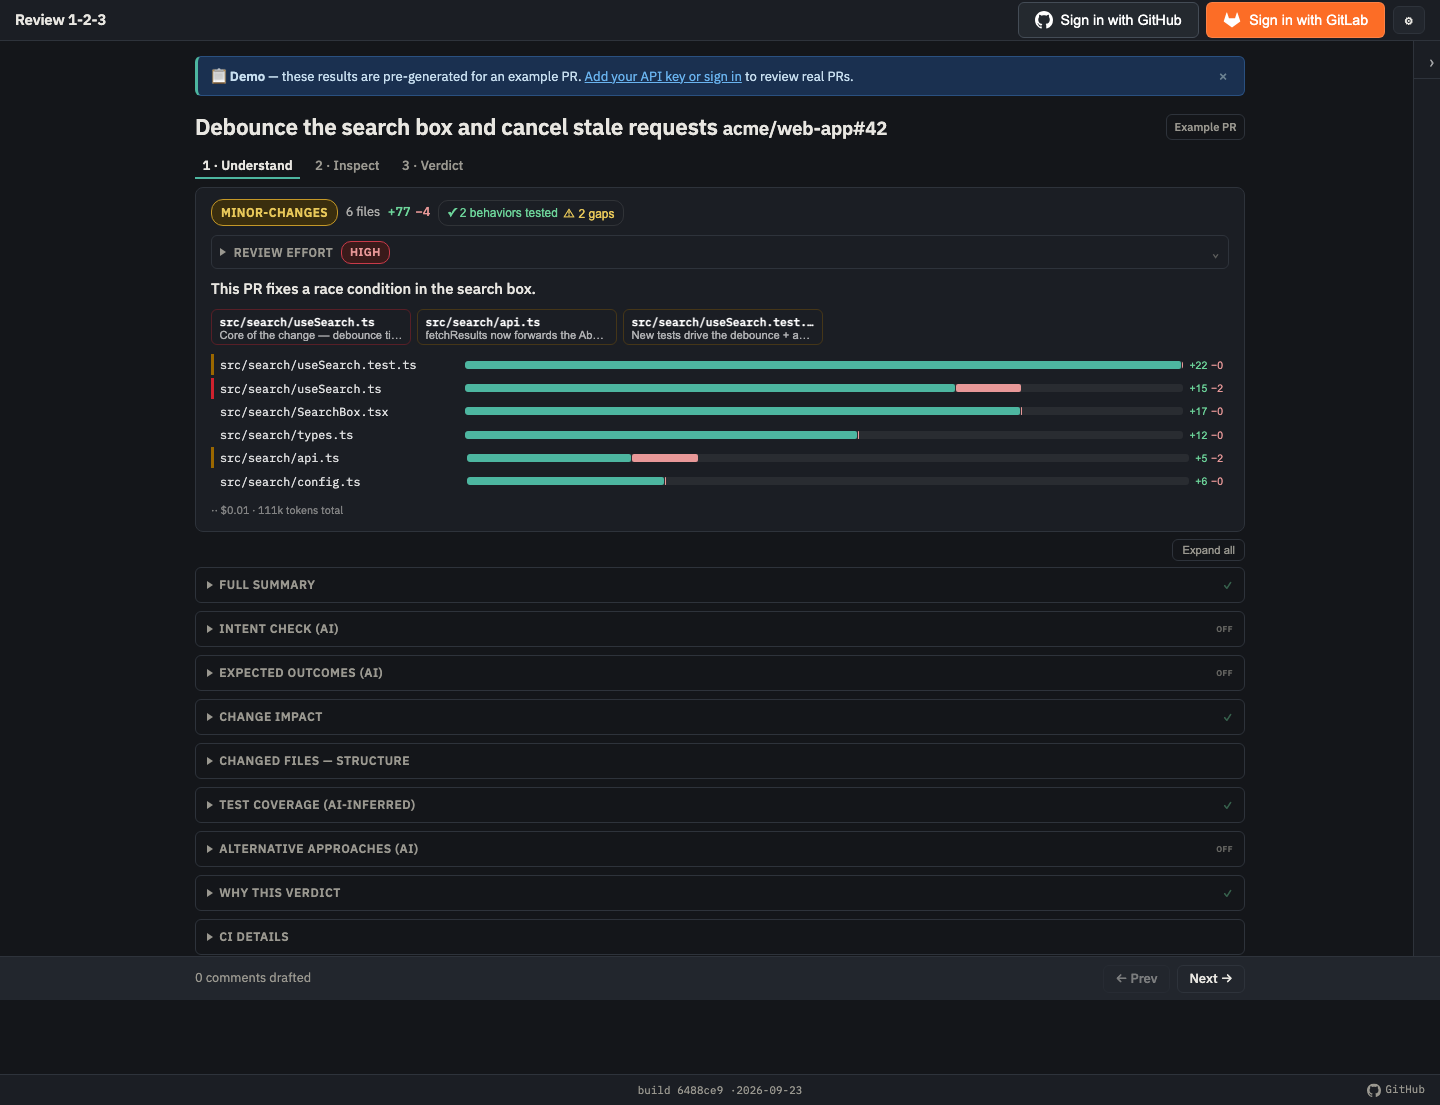
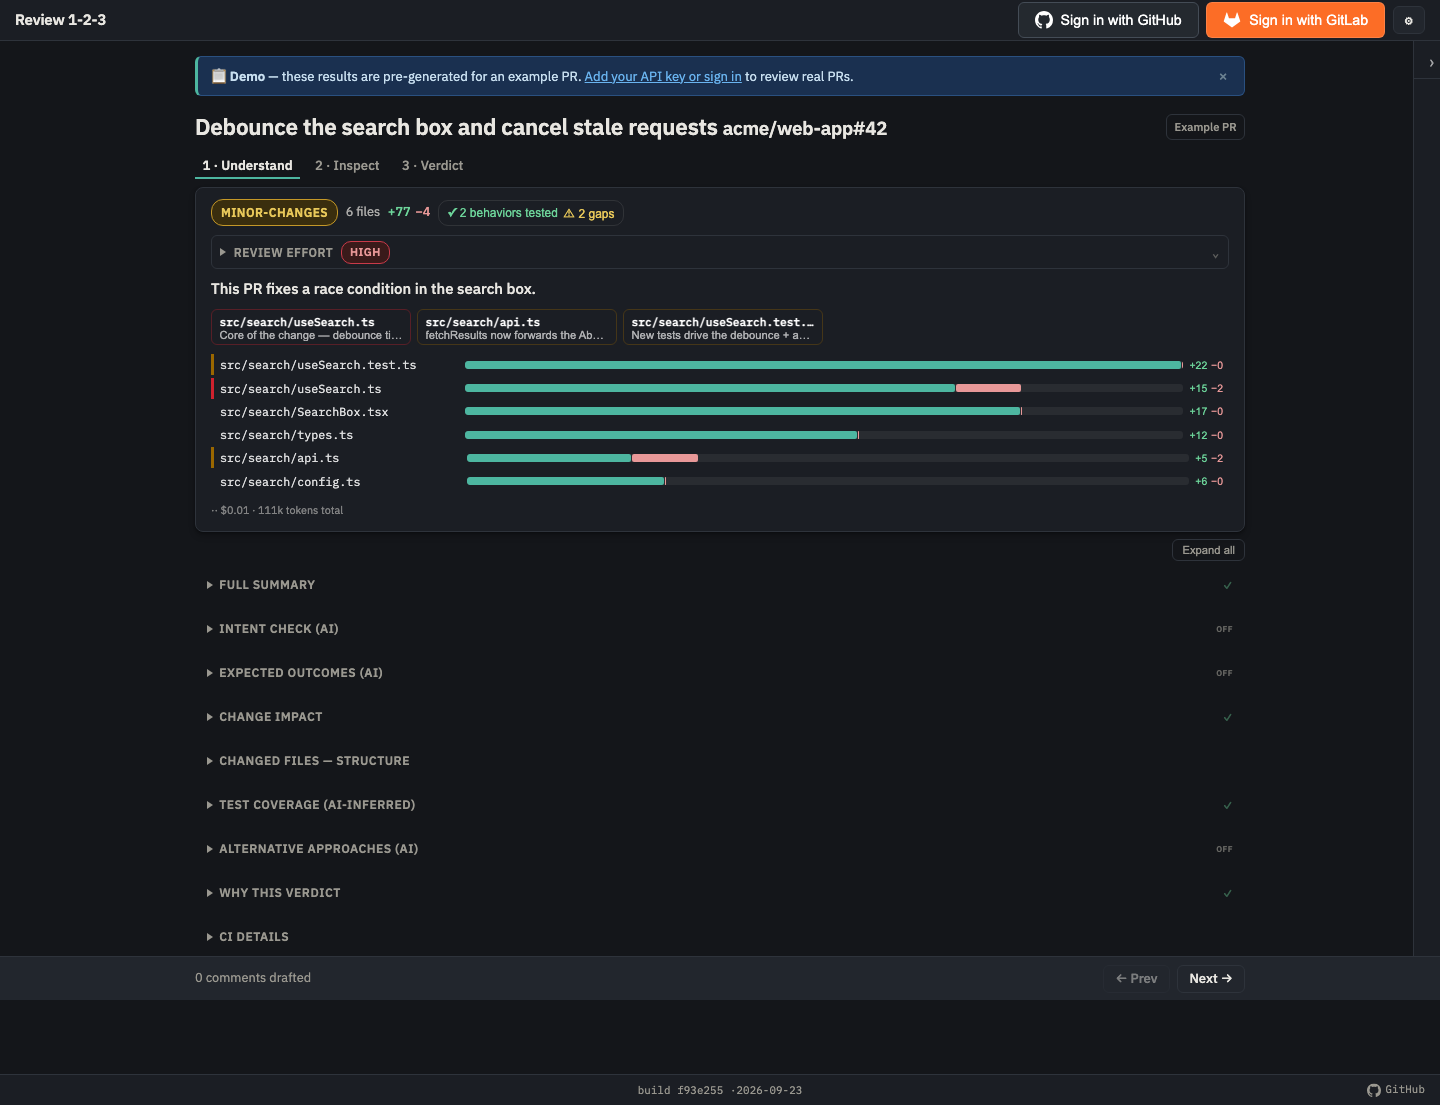
fix(ui): keep the card rim in dark — measured, the shadow cannot replace it
Re-measuring the three separation mechanisms in the built app, against each
theme's real grounds, contradicted "drop the border" as a universal rule:

  mechanism                    light        dark
  --hairline as a 1px rim      1.33:1       1.31:1
  --surface against --bg       1.06:1       1.08:1
  the elevation-1 shadow       1.58:1       1.08:1

In light the shadow beats the border outright -- stronger AND softer -- so the
border is redundant and goes. In dark it does not, and NO alpha rescues it:
black on #14161a tops out at 1.07:1 even at 0.40, because a near-black ground
has nothing left to cast into. That is very likely why the nine replaced values
kept climbing toward 0.40 without ever separating anything.

Shipping the border removal in both themes would have traded a 1.31:1 rim for a
1.08:1 shadow in dark -- a regression dressed as a principle. So the rim is now
theme-dependent, one declaration, the same shape the palette uses:

  border: 1px solid light-dark(transparent, var(--hairline));

Applied to .card, dialog, .glance-card and .detail-panel[open]. The nested
light-dark() is deliberate and was verified in a real browser before use -- it
keeps the dark side pointing at --hairline instead of duplicating #2e333b.
A CLOSED .detail-panel carries a transparent 1px rim in both themes so opening
one does not shift the layout.

contrast.test.ts gains the two assertions that make the split visible to whoever
[…]

Changed region(s): [[0.4688, 0.9846, 0.5, 1.0]]

diff --git a/src/app.css b/src/app.css
@@ -567,12 +567,27 @@ input[type='radio']:disabled {
    ═══════════════════════════════════════════ */
 
 /*
- * A card is separated from the page by DEPTH, not by a line: it sits on
- * --surface, which is lighter than --bg in light and in dark (the flat-design
- * depth cue, p.167-168), and carries elevation step 1. That is two of the three
- * alternatives p.206-209 offers instead of reaching for yet another border —
- * and the border it drops measured 1.33:1 against this very background, below
- * the threshold of comfortable perception anyway (audit F10).
+ * ── WHY THE BORDER IS THEME-DEPENDENT, and this is the rule that sets it ──
+ *
+ * p.206-209 says separate with space, a background shift or a shadow BEFORE
+ * reaching for another border. Measured on this app's real grounds, that advice
+ * holds in light and fails in dark:
+ *
+ *   mechanism                    light        dark
+ *   --hairline as a 1px rim      1.33:1       1.31:1
+ *   --surface against --bg       1.06:1       1.08:1
+ *   the elevation-1 shadow       1.58:1       1.08:1
+ *
+ * In light the shadow beats the border outright — stronger AND softer — so the
+ * border is redundant and goes. In dark it does not, and no alpha rescues it:
+ * black on #14161a tops out at 1.07:1 even at 0.40, which is exactly why the
+ * nine values Batch 2B replaced kept climbing toward 0.40 without ever
+ * separating anything. A dark ground has no room below it to cast into.
+ *
+ * So the rim stays in DARK only, and the shadow supports it there instead of
+ * replacing it. One declaration carries both, the same way the palette does.
+ * (Nested light-dark() is deliberate and verified in-browser: it keeps the dark
+ * side pointing at --hairline rather than duplicating its value here.)
  *
  * NOTE: this primitive has no call sites today; .glance-card in
  * UnderstandStep.svelte is a hand-inlined copy of the old rule. Batch 2B
@@ -580,6 +595,7 @@ input[type='radio']:disabled {
  */
 .card {
   background: var(--surface);
+  border: 1px solid light-dark(transparent, var(--hairline));
   border-radius: 8px;
   padding: 0.75rem 1rem;
   box-shadow: var(--elevation-1);
@@ -657,11 +673,12 @@ details[open] > summary::before {
  * A modal had NO shadow at all before Batch 2B — it sat flat against a page it
  * is meant to float above, held apart only by a 1.33:1 hairline and the
  * backdrop. p.159-160 names the modal as the one case where large elevation is
- * non-negotiable, so it takes the top step of the scale and drops the border.
+ * non-negotiable, so it takes the top step of the scale. The border follows the
+ * same theme-dependent rule as .card, and for the same measured reason.
  */
 dialog {
   background: var(--surface);
-  border: none;
+  border: 1px solid light-dark(transparent, var(--hairline));
   border-radius: 12px;
   color: var(--text);
   padding: 1.5rem;

diff --git a/src/lib/theme/contrast.test.ts b/src/lib/theme/contrast.test.ts
@@ -492,6 +492,41 @@ describe('F10 — the elevation scale', () => {
     }
     expect(contrast(DARK['--shadow-tight'], DARK['--bg'])).toBeGreaterThan(floor * 0.9)
   })
+
+  /**
+   * THE reason .card, dialog, .glance-card and .detail-panel[open] drop their
+   * border in light and KEEP it in dark.
+   *
+   * p.206-209 says separate with space, a background shift or a shadow before
+   * reaching for another border. Measured against this app's real grounds, that
+   * holds in light and fails in dark — and the failure is physical, not a
+   * tuning problem: a black shadow has nowhere to cast on a near-black ground,
+   * so it tops out around 1.07:1 even at the heaviest alpha the app ever used.
+   * That is very likely WHY the nine replaced values kept climbing toward 0.40
+   * without ever separating anything.
+   *
+   * Shipping "drop the border" in both themes would therefore have traded a
+   * 1.31:1 rim for a 1.08:1 shadow in dark — a regression dressed as a
+   * principle. These two assertions are what make that trade-off visible to
+   * whoever edits the scale next.
+   */
+  it('light: the shadow BEATS the border it replaces, so the border goes', () => {
+    const border = contrast(LIGHT['--hairline'], LIGHT['--bg'])
+    const shadowCore = contrast(LIGHT['--shadow-tight'], LIGHT['--bg'])
+    expect(round2(border), `hairline measured ${round2(border)}`).toBeLessThan(1.4)
+    expect(shadowCore, `shadow ${round2(shadowCore)} vs border ${round2(border)}`)
+      .toBeGreaterThan(border * 0.95)
+  })
+
+  it('dark: NO alpha lets a shadow beat the border, so the border stays', () => {
+    const border = contrast(DARK['--hairline'], DARK['--surface'])
+    // Not just our alphas — the whole usable range, including the heaviest
+    // value the app ever shipped. Every one of them loses to the rim.
+    for (const alpha of [0.2, 0.3, 0.4, 0.5, 0.6]) {
+      const r = contrast(`rgba(0,0,0,${alpha})`, DARK['--bg'])
+      expect(r, `black @${alpha} measured ${round2(r)}`).toBeLessThan(border)
+    }
+  })
 })
 
 /**

diff --git a/src/components/UnderstandStep.svelte b/src/components/UnderstandStep.svelte
@@ -681,9 +681,10 @@
      one-line summary, so it LEADS the ten detail panels below it rather than
      matching them (audit F9). Depth is what ranks it — elevation step 2 against
      the panels' 1-or-nothing. Otherwise this is the .card primitive in app.css
-     inlined; it drops its border for the same reason .card does (p.206-209). */
+     inlined, and it follows the same measured theme-dependent border rule. */
   .glance-card {
     background: var(--surface);
+    border: 1px solid light-dark(transparent, var(--hairline));
     border-radius: 8px;
     padding: 0.75rem 1rem;
     box-shadow: var(--elevation-2);
@@ -1187,9 +1188,12 @@
    *            --bg in BOTH themes (the flat-design depth cue, p.167-168),
    *            and takes elevation step 1.
    *
-   * The border is gone in both states: the background shift plus the shadow
-   * separate an open panel from the page (p.207-208), and the .understand-step
-   * column gap separates the closed ones from each other (p.209).
+   * A CLOSED panel has no border in either theme — there is no box to outline.
+   * An OPEN one keeps a rim in DARK only, on the measured rule app.css sets out
+   * on .card: in light the elevation-1 shadow reads 1.58:1 against the page and
+   * beats the 1.33:1 border it replaces, but in dark a black shadow tops out at
+   * 1.08:1 whatever its alpha, so there the rim is still the only mechanism
+   * that works and the shadow supports it (p.206-209, measured, not assumed).
    *
    * Above them, .glance-card takes elevation step 2, so the page now reads in
    * three depths — the primary card, then an opened panel, then the flat list —
@@ -1197,12 +1201,14 @@
    */
 
   .detail-panel {
+    border: 1px solid transparent;
     border-radius: 6px;
     overflow: hidden;
   }
 
   .detail-panel[open] {
     background: var(--surface);
+    border-color: light-dark(transparent, var(--hairline));
     box-shadow: var(--elevation-1);
   }
 

diff --git a/src/components/design-system-primitives.test.ts b/src/components/design-system-primitives.test.ts
@@ -141,10 +141,17 @@ describe('elevation primitive — one scale, no bespoke shadows', () => {
     // non-negotiable, and dialog had none at all before Batch 2B.
     expect(rule('dialog')).toMatch(/box-shadow:\s*var\(--elevation-5\)/)
     expect(rule('\\.card')).toMatch(/box-shadow:\s*var\(--elevation-1\)/)
-    // Both dropped their border: depth plus a background shift separates them
-    // now, rather than a fourth mechanism (p.206-209).
-    expect(rule('dialog')).not.toMatch(/border:\s*1px/)
-    expect(rule('\\.card')).not.toMatch(/border:\s*1px/)
+    // Both drop the rim in LIGHT, where the shadow measures 1.58:1 against the
+    // page and beats the 1.33:1 border outright, and keep it in DARK, where a
+    // black shadow cannot exceed 1.08:1 at any alpha. The measurements behind
+    // that split are asserted in src/lib/theme/contrast.test.ts; this only
+    // pins that both primitives express it the same way and neither has
+    // quietly gone back to an unconditional border.
+    for (const selector of ['dialog', '\\.card']) {
+      expect(rule(selector), selector).toMatch(
+        /border:\s*1px solid light-dark\(\s*transparent\s*,\s*var\(--hairline\)\s*\)/,
+      )
+    }
   })
 
   it('a chip takes no elevation — it is a label, not an object (p.158)', () => {
